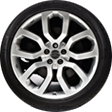
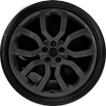
mdw: color dark rims

diff --git a/mdw/css/style.css b/mdw/css/style.css
@@ -123,67 +123,67 @@ section#section-two .glitch {
 }
 @keyframes noise-anim {
   0% {
-    clip: rect(54px, 9999px, 54px, 0);
+    clip: rect(93px, 9999px, 38px, 0);
   }
   5% {
-    clip: rect(22px, 9999px, 10px, 0);
+    clip: rect(47px, 9999px, 76px, 0);
   }
   10% {
-    clip: rect(89px, 9999px, 96px, 0);
+    clip: rect(21px, 9999px, 47px, 0);
   }
   15% {
-    clip: rect(41px, 9999px, 10px, 0);
+    clip: rect(21px, 9999px, 8px, 0);
   }
   20% {
-    clip: rect(28px, 9999px, 64px, 0);
+    clip: rect(33px, 9999px, 37px, 0);
   }
   25% {
-    clip: rect(20px, 9999px, 98px, 0);
+    clip: rect(65px, 9999px, 17px, 0);
   }
   30% {
-    clip: rect(38px, 9999px, 61px, 0);
+    clip: rect(41px, 9999px, 93px, 0);
   }
   35% {
-    clip: rect(74px, 9999px, 52px, 0);
+    clip: rect(56px, 9999px, 49px, 0);
   }
   40% {
-    clip: rect(92px, 9999px, 58px, 0);
+    clip: rect(96px, 9999px, 21px, 0);
   }
   45% {
-    clip: rect(82px, 9999px, 4px, 0);
+    clip: rect(16px, 9999px, 80px, 0);
   }
   50% {
-    clip: rect(55px, 9999px, 57px, 0);
+    clip: rect(42px, 9999px, 48px, 0);
   }
   55% {
-    clip: rect(48px, 9999px, 12px, 0);
+    clip: rect(84px, 9999px, 25px, 0);
   }
   60% {
-    clip: rect(3px, 9999px, 97px, 0);
+    clip: rect(94px, 9999px, 41px, 0);
   }
   65% {
-    clip: rect(41px, 9999px, 94px, 0);
+    clip: rect(26px, 9999px, 44px, 0);
   }
   70% {
-    clip: rect(87px, 9999px, 35px, 0);
+    clip: rect(12px, 9999px, 9px, 0);
   }
   75% {
-    clip: rect(26px, 9999px, 59px, 0);
+    clip: rect(100px, 9999px, 51px, 0);
   }
   80% {
-    clip: rect(47px, 9999px, 69px, 0);
+    clip: rect(42px, 9999px, 81px, 0);
   }
   85% {
-    clip: rect(38px, 9999px, 87px, 0);
+    clip: rect(15px, 9999px, 3px, 0);
   }
   90% {
-    clip: rect(45px, 9999px, 47px, 0);
+    clip: rect(88px, 9999px, 37px, 0);
   }
   95% {
-    clip: rect(16px, 9999px, 18px, 0);
+    clip: rect(51px, 9999px, 28px, 0);
   }
   100% {
-    clip: rect(82px, 9999px, 3px, 0);
+    clip: rect(46px, 9999px, 54px, 0);
   }
 }
 /* line 123, ../sass/_home.scss */
@@ -201,67 +201,67 @@ section#section-two .glitch:after {
 }
 @keyframes noise-anim-2 {
   0% {
-    clip: rect(86px, 9999px, 75px, 0);
+    clip: rect(44px, 9999px, 35px, 0);
   }
   5% {
-    clip: rect(51px, 9999px, 59px, 0);
+    clip: rect(80px, 9999px, 17px, 0);
   }
   10% {
-    clip: rect(26px, 9999px, 68px, 0);
+    clip: rect(32px, 9999px, 94px, 0);
   }
   15% {
-    clip: rect(35px, 9999px, 50px, 0);
+    clip: rect(40px, 9999px, 98px, 0);
   }
   20% {
-    clip: rect(44px, 9999px, 54px, 0);
+    clip: rect(18px, 9999px, 44px, 0);
   }
   25% {
-    clip: rect(15px, 9999px, 50px, 0);
+    clip: rect(57px, 9999px, 58px, 0);
   }
   30% {
-    clip: rect(17px, 9999px, 16px, 0);
+    clip: rect(4px, 9999px, 60px, 0);
   }
   35% {
-    clip: rect(89px, 9999px, 100px, 0);
+    clip: rect(63px, 9999px, 4px, 0);
   }
   40% {
-    clip: rect(78px, 9999px, 74px, 0);
+    clip: rect(68px, 9999px, 88px, 0);
   }
   45% {
-    clip: rect(27px, 9999px, 76px, 0);
+    clip: rect(100px, 9999px, 3px, 0);
   }
   50% {
-    clip: rect(36px, 9999px, 39px, 0);
+    clip: rect(44px, 9999px, 24px, 0);
   }
   55% {
-    clip: rect(15px, 9999px, 52px, 0);
+    clip: rect(99px, 9999px, 6px, 0);
   }
   60% {
-    clip: rect(15px, 9999px, 8px, 0);
+    clip: rect(73px, 9999px, 20px, 0);
   }
   65% {
-    clip: rect(95px, 9999px, 46px, 0);
+    clip: rect(46px, 9999px, 6px, 0);
   }
   70% {
-    clip: rect(20px, 9999px, 88px, 0);
+    clip: rect(43px, 9999px, 19px, 0);
   }
   75% {
-    clip: rect(65px, 9999px, 64px, 0);
+    clip: rect(54px, 9999px, 52px, 0);
   }
   80% {
-    clip: rect(36px, 9999px, 92px, 0);
+    clip: rect(4px, 9999px, 9px, 0);
   }
   85% {
-    clip: rect(46px, 9999px, 99px, 0);
+    clip: rect(90px, 9999px, 2px, 0);
   }
   90% {
-    clip: rect(24px, 9999px, 9px, 0);
+    clip: rect(74px, 9999px, 13px, 0);
   }
   95% {
-    clip: rect(60px, 9999px, 16px, 0);
+    clip: rect(56px, 9999px, 4px, 0);
   }
   100% {
-    clip: rect(69px, 9999px, 61px, 0);
+    clip: rect(10px, 9999px, 20px, 0);
   }
 }
 /* line 144, ../sass/_home.scss */
@@ -462,39 +462,44 @@ section#section-three .car img {
   width: 100%;
   animation: suspension 1s infinite;
 }
-/* line 39, ../sass/_car.scss */
-section#section-three .car .wheel {
+/* line 40, ../sass/_car.scss */
+section#section-three .wheel:not(.wheel2) {
+  background: url("../img/wheeldark.png") no-repeat center center;
+}
+/* line 44, ../sass/_car.scss */
+section#section-three .wheel2 {
   background: url("../img/wheel.png") no-repeat center center;
-  background-size: 99% auto;
+}
+/* line 47, ../sass/_car.scss */
+section#section-three .car .wheel {
+  background-size: 100%;
   display: block;
-  width: 55px;
-  height: 55px;
+  width: 50px;
+  height: 50px;
   position: absolute;
   bottom: 5px;
-  -webkit-animation: spin 0.1s linear infinite;
-  animation: spin 0.1s linear infinite;
+  -webkit-animation: spin 0.01s linear infinite;
+  animation: spin 0.01s linear infinite;
 }
-/* line 50, ../sass/_car.scss */
+/* line 56, ../sass/_car.scss */
 section#section-three .car .wheel2 {
-  background: url("../img/wheel2.png") no-repeat center center;
-  background-size: 100%;
   width: 60px;
   height: 60px;
   bottom: 0;
 }
-/* line 56, ../sass/_car.scss */
+/* line 60, ../sass/_car.scss */
 section#section-three .car .wheel2.front {
   left: 52px;
 }
-/* line 59, ../sass/_car.scss */
+/* line 63, ../sass/_car.scss */
 section#section-three .car .wheel2.back {
   right: 30px;
 }
-/* line 64, ../sass/_car.scss */
+/* line 68, ../sass/_car.scss */
 section#section-three .wheel.front {
   left: 20px;
 }
-/* line 65, ../sass/_car.scss */
+/* line 69, ../sass/_car.scss */
 section#section-three .wheel.back {
   right: 27px;
 }

diff --git a/mdw/sass/_car.scss b/mdw/sass/_car.scss
@@ -36,20 +36,24 @@ section#section-three{
     }
   }
   .car img { width: 100%; animation: suspension 1s infinite; }
-  .car .wheel {
+  .wheel{
+    &:not(.wheel2){
+      background: url("../img/wheeldark.png") no-repeat center center;
+    }
+  }
+  .wheel2{
     background: url("../img/wheel.png") no-repeat center center;
-    background-size: 99% auto;
+  }
+  .car .wheel {
+    background-size: 100%;
     display: block;
-    width: 55px;
-    height: 55px;
+    width: 50px;
+    height: 50px;
     position: absolute;
     bottom: 5px;
-    -webkit-animation: spin 0.1s linear infinite;
-    animation: spin 0.1s linear infinite;
-
+    -webkit-animation: spin 0.01s linear infinite;
+    animation: spin 0.01s linear infinite;
     &2{
-      background: url("../img/wheel2.png") no-repeat center center;
-      background-size: 100%;
       width: 60px;
       height: 60px;
       bottom: 0;
